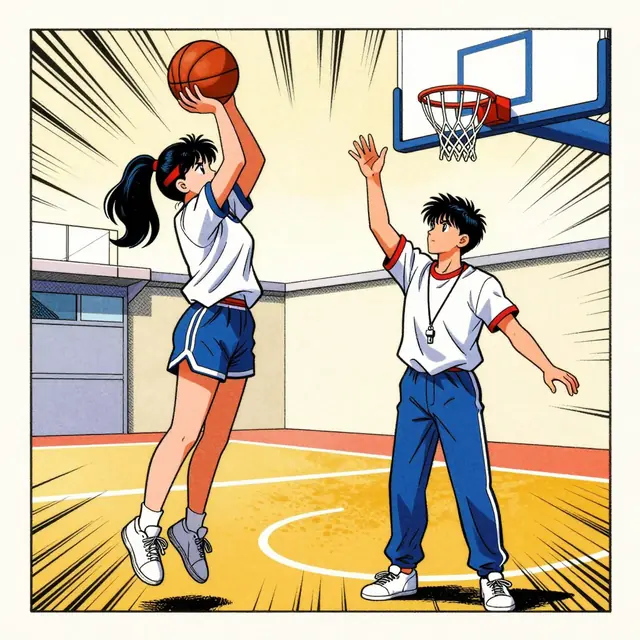
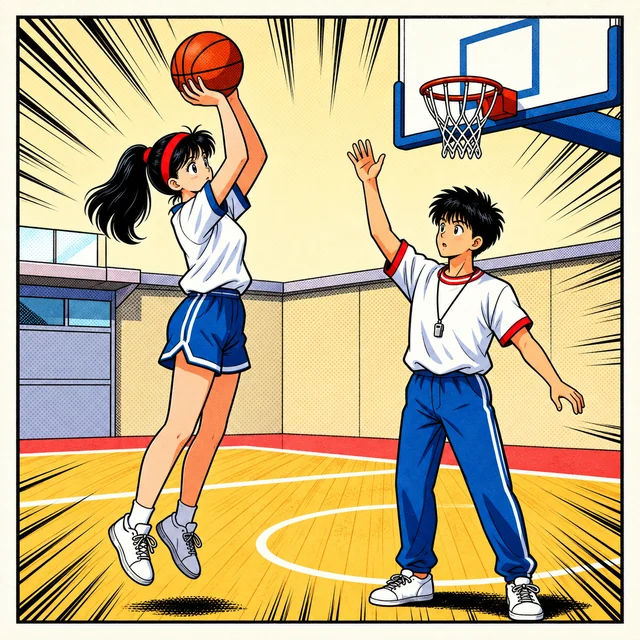
重生 2-5-1 漫畫與插圖
- 以內建生圖替換暖身漫畫及 12 張概念插圖，延續昭和運動漫畫風
- 修正漫畫右上格少女的馬尾綁點與方向，讓四格角色一致
- 依新畫面更新 13 段替代文字，保留可再編修的原圖與泡框資料
- 補上角色一致性規則；414px 與 1280px 驗收圖片載入及版面

diff --git a/materials/2-5-1/index.html b/materials/2-5-1/index.html
@@ -72,7 +72,7 @@
             體育課投籃測驗，小葵這一組 \(5\) 個人各投 \(10\) 球。記錄的大志宣布：「<strong style="color:#fca5a5">平均進 \(5\) 球</strong>！」只進 \(4\) 球的小葵垂頭喪氣：比平均少，是不是全組最差？大志看了看記錄板上的 \(3, 4, 4, 4, 10\)——咦，明明有 \(3\) 個人都進 \(4\) 球。<strong style="color:#fca5a5">平均數真的能代表這一組嗎？</strong>這一節學完三個代表值，再回來回答。
           </p>
           <div class="illustration-container" style="max-width: 600px; width: 100%; border: 1px solid rgba(255,255,255,0.08); box-shadow: 0 8px 32px rgba(0,0,0,0.4); border-radius: 20px; overflow: hidden; background: rgba(15, 23, 42, 0.4);">
-            <img src="motivation_comic.webp" alt="昭和運動漫畫風四格漫畫，四格都是同一座學校體育館的籃球場，背景有籃球架與木頭牆板。黑色高馬尾、額頭綁朱紅色頭帶、穿白色運動上衣（藍色滾邊）的少女，與黑色短髮、脖子掛銀色哨子、穿白色運動上衣（紅色滾邊）和藍色運動長褲的少年。第一格，少年一手拿著記錄夾板、一手舉起拳頭宣布：「我們這組 5 個人各投 10 球，平均進 5 球！」少女抱著籃球看著他。第二格是少女的特寫，她閉著眼睛、低頭抱著籃球，沮喪地說：「我只進 4 球……比平均少，我是最差的嗎？」第三格，少年低頭看著記錄夾板，心想：「3、4、4、4、10……咦，有 3 個人都進 4 球？」少女一手摸著下巴看著他。第四格，少女一手握拳、一手豎起食指大喊：「是校隊一個人進 10 球，把平均拉高了！」少年拿著夾板轉頭看她。" style="width: 100%; height: auto; display: block; transition: transform 0.3s;" class="comic-img">
+            <img src="motivation_comic.webp" alt="四格漫畫：少年說五人各投十球，平均進五球；只進四球的少女以為自己最差。兩人查看三、四、四、四、十的紀錄，發現一人的十球拉高了平均。" style="width: 100%; height: auto; display: block; transition: transform 0.3s;" class="comic-img">
           </div>
         </div>
       </section>
@@ -108,7 +108,7 @@
             </div>
 
             <div class="illustration-container">
-              <img src="stat_board.webp" alt="昭和運動漫畫風插圖，奶油色舊紙質感：學校走廊的軟木公布欄上釘著一張白色海報，海報上畫著幾根高低不同、彼此分開的紅、黃、綠、藍色長條。黑色高馬尾、額頭綁朱紅色頭帶、穿白色運動上衣（藍色滾邊）和藍色運動短褲的少女站在左邊，伸長手臂用手指指著最高的那根紅色長條；黑色短髮、脖子掛銀色哨子、穿白色運動上衣（紅色滾邊）和藍色運動長褲的少年站在右邊，手拿咖啡色記錄夾板，轉頭看著她指的地方。" class="illustration" loading="lazy">
+              <img src="stat_board.webp" alt="走廊公布欄上有四根高低不同的彩色長條，少女指著最高的紅色長條，少年拿著記錄夾板看向圖表。" class="illustration" loading="lazy">
             </div>
           </div>
 
@@ -243,7 +243,7 @@
             </div>
 
             <div class="illustration-container">
-              <img src="stat_pie.webp" alt="昭和運動漫畫風插圖，奶油色舊紙質感：運動場邊的紅色帳篷下，兩個學生一起扶著一塊大大的圓形色塊板，圓被分成大小不同的四塊扇形，分別是紅、藍、黃和白色。黑色高馬尾、額頭綁朱紅色頭帶、穿白色運動上衣（藍色滾邊）和藍色運動短褲的少女在左邊，雙手按著圓板的上緣；黑色短髮、脖子掛銀色哨子、穿白色運動上衣（紅色滾邊）和藍色運動長褲的少年在右邊彎著腰，一手扶著圓板的邊緣。背景是紅色跑道、足球門和看台。" class="illustration" loading="lazy">
+              <img src="stat_pie.webp" alt="運動場帳篷下，兩名學生合扶一塊分成四個大小不同扇形的圓板。" class="illustration" loading="lazy">
             </div>
           </div>
 
@@ -375,7 +375,7 @@
             </ul>
 
             <div class="illustration-container">
-              <img src="stat_cross.webp" alt="昭和運動漫畫風插圖，奶油色舊紙質感：學校體育器材室裡，牆邊地上並排放著兩個鐵絲籃，左邊的籃子裝滿籃球，右邊的籃子裝滿白藍相間的排球，兩種球沒有混在一起。黑色高馬尾、額頭綁朱紅色頭帶、穿白色運動上衣（藍色滾邊）和藍色運動短褲的少女站在左邊，雙手捧著一顆籃球；黑色短髮、脖子掛銀色哨子、穿白色運動上衣（紅色滾邊）和藍色運動長褲的少年站在右邊，一手拿咖啡色記錄夾板、一手握著鉛筆，看著籃子清點。" class="illustration" loading="lazy">
+              <img src="stat_cross.webp" alt="體育器材室的兩個籃子分別裝籃球與排球，少女拿起籃球，少年用記錄夾板清點。" class="illustration" loading="lazy">
             </div>
           </div>
 
@@ -502,7 +502,7 @@
             </ul>
 
             <div class="illustration-container">
-              <img src="stat_tally.webp" alt="昭和運動漫畫風插圖，奶油色舊紙質感，外圍有黑色粗框與放射狀速度線：操場邊的跳遠沙坑，黑色高馬尾、額頭綁朱紅色頭帶、穿白色運動上衣（藍色滾邊）和藍色運動短褲的少女在半空中，雙腳往前伸、正要落進沙坑；黑色短髮、脖子掛銀色哨子、穿白色運動上衣（紅色滾邊）和藍色運動長褲的少年站在沙坑右邊，一手拿著咖啡色記錄夾板，轉頭看著她。背景是紅色跑道、草地、看台和一塊空白的看板。" class="illustration" loading="lazy">
+              <img src="stat_tally.webp" alt="少女在跳遠沙坑上方騰空、雙腳向前，少年站在沙坑外拿記錄夾板觀察。" class="illustration" loading="lazy">
             </div>
           </div>
 
@@ -612,7 +612,7 @@
             </div>
 
             <div class="illustration-container">
-              <img src="stat_histo.webp" alt="昭和運動漫畫風插圖，奶油色舊紙質感：學校保健室的牆邊立著一根木頭身高尺，尺上只有一條條刻度線。黑色高馬尾、額頭綁朱紅色頭帶、穿白色運動上衣（藍色滾邊）和藍色運動短褲的少女站在身高尺左邊，轉頭看著少年；黑色短髮、脖子掛銀色哨子、穿白色運動上衣（紅色滾邊）和藍色運動長褲的少年在右邊彎下腰，把臉湊近身高尺，看著少女頭頂附近的刻度。旁邊有一扇窗戶。" class="illustration" loading="lazy">
+              <img src="stat_histo.webp" alt="保健室裡，少女站在木製身高尺旁，少年看著她頭頂附近的刻度。" class="illustration" loading="lazy">
             </div>
           </div>
 
@@ -729,7 +729,7 @@
             </ul>
 
             <div class="illustration-container">
-              <img src="stat_polygon.webp" alt="昭和運動漫畫風插圖，奶油色舊紙質感：學校體育館的木頭地板上有一條紅色長條區域，上面畫著白線。黑色高馬尾、額頭綁朱紅色頭帶、穿白色運動上衣（藍色滾邊）和藍色運動短褲的少女雙腳併攏跳離地面，雙手往兩側張開，懸在紅色區域上方；黑色短髮、脖子掛銀色哨子、穿白色運動上衣（紅色領口與袖口）和藍色運動長褲的少年站在右邊，一手拿著咖啡色記錄夾板，看著她。背景有白色牆壁和靠牆的課桌。" class="illustration" loading="lazy">
+              <img src="stat_polygon.webp" alt="體育館裡，少女從地板上的白線向前跳起，少年站在旁邊拿記錄夾板。" class="illustration" loading="lazy">
             </div>
           </div>
 
@@ -868,7 +868,7 @@
             </ul>
 
             <div class="illustration-container">
-              <img src="stat_mean.webp" alt="昭和運動漫畫風插圖，奶油色舊紙質感：學校操場上，黑色高馬尾、額頭綁朱紅色頭帶、穿白色運動上衣（藍色滾邊）和藍色運動短褲的少女在左邊跳繩，雙腳離地，跳繩甩到她的腳下；黑色短髮、脖子掛銀色哨子、穿白色運動上衣（紅色滾邊）和藍色運動長褲的少年站在右邊，一手舉著銀色碼錶看著她。背景是看台和校舍。" class="illustration" loading="lazy">
+              <img src="stat_mean.webp" alt="操場上，少女雙腳離地跳繩，少年拿著碼錶記錄。" class="illustration" loading="lazy">
             </div>
           </div>
 
@@ -992,7 +992,7 @@
             </ul>
 
             <div class="illustration-container">
-              <img src="stat_calc.webp" alt="昭和運動漫畫風插圖，奶油色舊紙質感：教室裡，黑色高馬尾、額頭綁朱紅色頭帶、穿白色運動上衣（藍色滾邊）的少女坐在課桌前，雙手手指按著桌上一台平放的灰色口袋型計算機，計算機上方是一條綠色的液晶顯示窗，下方是一排排小按鍵；黑色短髮、脖子掛銀色哨子、穿白色運動上衣（紅色滾邊）和藍色運動長褲的少年站在課桌旁，一手拿著咖啡色記錄夾板，一手指著夾板。背景是黑板、窗戶和教室的桌椅。" class="illustration" loading="lazy">
+              <img src="stat_calc.webp" alt="教室裡，少女按著課桌上的口袋型電子計算器，少年拿記錄夾板在旁觀看。" class="illustration" loading="lazy">
             </div>
           </div>
 
@@ -1106,7 +1106,7 @@
             </ul>
 
             <div class="illustration-container">
-              <img src="stat_midpoint.webp" alt="昭和運動漫畫風插圖，奶油色舊紙質感：學校體育館的藍色軟墊上，黑色高馬尾、額頭綁朱紅色頭帶、穿白色運動上衣（藍色滾邊）和藍色運動短褲的少女仰躺屈膝，雙手握拳放在胸前，上半身抬起一半，正在做仰臥起坐；黑色短髮、脖子掛銀色哨子、穿白色運動上衣（紅色滾邊）和藍色運動長褲的少年跪在她的腳邊，雙手壓住她的腳背，嘴裡含著哨子。" class="illustration" loading="lazy">
+              <img src="stat_midpoint.webp" alt="體育館裡，少女在藍色軟墊上做仰臥起坐，少年跪在她腳邊幫忙固定鞋子。" class="illustration" loading="lazy">
             </div>
           </div>
 
@@ -1232,7 +1232,7 @@
             </ul>
 
             <div class="illustration-container">
-              <img src="stat_median.webp" alt="昭和運動漫畫風插圖，奶油色舊紙質感：學校操場上，黑色高馬尾、額頭綁朱紅色頭帶、穿白色運動上衣（藍色滾邊）和藍色運動短褲的少女，與黑色短髮、脖子掛銀色哨子、穿白色運動上衣（紅色滾邊）和藍色運動長褲的少年肩並肩站在一起比身高，少年比少女高半個頭，兩人都微笑著。背景是看台、紅色跑道和校舍，天空有放射狀的速度線。" class="illustration" loading="lazy">
+              <img src="stat_median.webp" alt="操場上，少女與少年肩並肩站在同一地面比較身高，少年約高半個頭。" class="illustration" loading="lazy">
             </div>
           </div>
 
@@ -1350,7 +1350,7 @@
             <p style="margin-top: 0.75rem; color: #cbd5e1;">累加到 \(9\) 還不到第 \(14\) 個，到 \(17\) 就超過了，所以第 \(14\) 個在「\(3\) 天」那一列，中位數是 \(3\) 天。</p>
 
             <div class="illustration-container">
-              <img src="stat_cumulate.webp" alt="昭和運動漫畫風插圖，奶油色舊紙質感：學校操場的紅色跑道上，黑色高馬尾、額頭綁朱紅色頭帶、穿白色運動上衣（藍色滾邊）和藍色運動短褲的少女握緊拳頭往前衝刺，馬尾往後飛揚；黑色短髮、脖子掛銀色哨子、穿白色運動上衣（紅色滾邊）和藍色運動長褲的少年站在跑道右邊，一手舉著銀色碼錶，另一手夾著咖啡色記錄夾板。" class="illustration" loading="lazy">
+              <img src="stat_cumulate.webp" alt="少女在紅色跑道上衝刺，少年站在跑道旁拿碼錶與記錄夾板。" class="illustration" loading="lazy">
             </div>
           </div>
 
@@ -1474,7 +1474,7 @@
             </div>
 
             <div class="illustration-container">
-              <img src="stat_mode.webp" alt="昭和運動漫畫風插圖，奶油色舊紙質感：學校體育館的籃球場上，黑色高馬尾、額頭綁朱紅色頭帶、穿白色運動上衣（藍色滾邊）和藍色運動短褲的少女跳起來，雙手把籃球舉過頭頂，正要投向右上方的籃框；黑色短髮、脖子掛銀色哨子、穿白色運動上衣（紅色滾邊）和藍色運動長褲的少年站在籃框下方，一手高高舉起、一手張開，抬頭看著籃框準備接球。背景有放射狀的速度線。" class="illustration" loading="lazy">
+              <img src="stat_mode.webp" alt="體育館裡，少女拿著一顆籃球躍起準備投籃，少年在籃框旁看著她。" class="illustration" loading="lazy">
             </div>
           </div>
 

diff --git a/AGENTS.md b/AGENTS.md
@@ -72,6 +72,7 @@
 - [x] 階段三十七：`2-3-2` 的暖身漫畫與 10 張插圖全部改用 **Codex 內建生圖**版本，正式教材的 11 張圖與選定檔案逐一比對雜湊一致。漫畫依使用者回饋迭代到 v4：補上碼錶指針、避免開關遮斷軌道、移除不合理殘影、讓火車車輪落在軌道上，並把第 3 格台詞改為「速度調成 2 倍，再跑一趟！」。正式頁 11 張圖均載入成功，console 零警告／零錯誤、頁面零水平溢出；本地模型／Codex 比較頁完成挑選任務後，依使用者指示於 2026-09-21 刪除。
 
 - [x] 階段三十八：`2-4-1` 的暖身漫畫與 8 張插圖全部改用 **Codex 內建生圖**版本，維持復古遊樂園海報風與小晴、阿哲的角色設定；正式 WebP 全數替換，8 段 alt 依新畫面改寫。漫畫走 `teaching-comic` 的正規流程，保留 `_raw`、`_normalized`、泡框 JSON 與 `_final`；第一版空白泡內出現黑／青色破圖，改用同一張生成圖做編修後修正。後製時發現 Microsoft JhengHei 缺少 `≥` 字形而畫成方框，第 4 格改排「x 大於或等於 140」。驗收在 414px 與 1280px 兩檔：9 張圖全數載入、console 零警告／零錯誤、頁面零水平溢出。
+- [x] 階段三十九：`2-5-1` 的暖身漫畫與 12 張插圖全部改用 **Codex 內建生圖**版本，維持昭和熱血運動漫畫網點風；正式 WebP 全數替換，13 段 alt 依新畫面改寫。漫畫依回饋修正右上格少女的馬尾：綁點在後腦，髮束垂在背後，與其餘格一致。保留原圖、標準化圖、泡框 JSON 與排字成品；驗收在 414px 與 1280px 兩檔，13 張圖全數載入、console 零警告／零錯誤、頁面零水平溢出。
 
 > 目前課程進度：58 節中 `1-1-1`、`1-1-2`、`1-1-3`、`1-1-4`、`1-2-1`、`1-2-2`、`1-2-3`、`1-2-4`、`1-3-1`、`1-3-2`、`1-3-3`（第一冊全冊）、`2-1-1`、`2-1-2`、`2-1-3`（第二冊第 1 章全章）、`2-2-1`、`2-2-2`（第二冊第 2 章全章）、`2-3-1`、`2-3-2`（第二冊第 3 章全章）、`2-4-1`、`2-4-2`（第二冊第 4 章全章）、`2-5-1`（第二冊第 5 章全章）、`2-6-1`（第二冊第 6 章全章）完成，第二冊全冊完成，其餘 35 節為佔位頁。
 
@@ -256,6 +257,7 @@ teaching-web/
 - 漫畫只有 `_raw.png` 會呼叫生圖 API 計費，`_prepped`／`_normalized`／`_final` 都是本機處理，改對白重跑不用再花錢
 - 風格規則為依小節指定，不再全站固定水豚風
 - **漫畫的角色設定要與該節插圖對齊，而且要在生圖提示裡逐項寫死**：風格關鍵字相同並不保證角色相同——`1-3-2` 的插圖是黑髮男孩配黃銅發條貓，漫畫卻生成棕色捲髮男孩配藍綠眼貓，兩者擺在同一頁一眼看得出不是同一套教材。動筆前先看過該節既有插圖，把**髮色與髮型、隨身配件、服裝、動物角色的材質與尾巴形狀、眼睛顏色**逐項寫進提示，並指明畫風媒材（例：黑墨線＋水彩暈染，不是數位卡通）
+- **重生同角色圖片時以已定稿圖片作參考，並逐格核對角色輪廓**：除髮色與服裝，還要確認綁髮位置、髮束垂落方向及配件位置；側身構圖尤其要檢查馬尾是否仍從後腦垂在背後。不能只憑提示詞宣稱角色一致。
 - **對話泡一律由生圖階段畫出**（生圖提示要空白泡，不要再寫 `no speech bubbles`），後製腳本預設只排字；泡不堪用就重生原圖，不要用 `-DrawBubbles` 補框
 - **對白座標一律從實際的 `_normalized.png` 量測**泡的內緣，不要從腳本參數或原圖推算
 - **`bubbles.json` 的 `w`／`h` 要給泡的完整內緣，不要預先內縮**：`add_captions_json.ps1` 自己會加 padding，先內縮會變成縮兩次，字級被壓到最小值仍排不下而報錯
